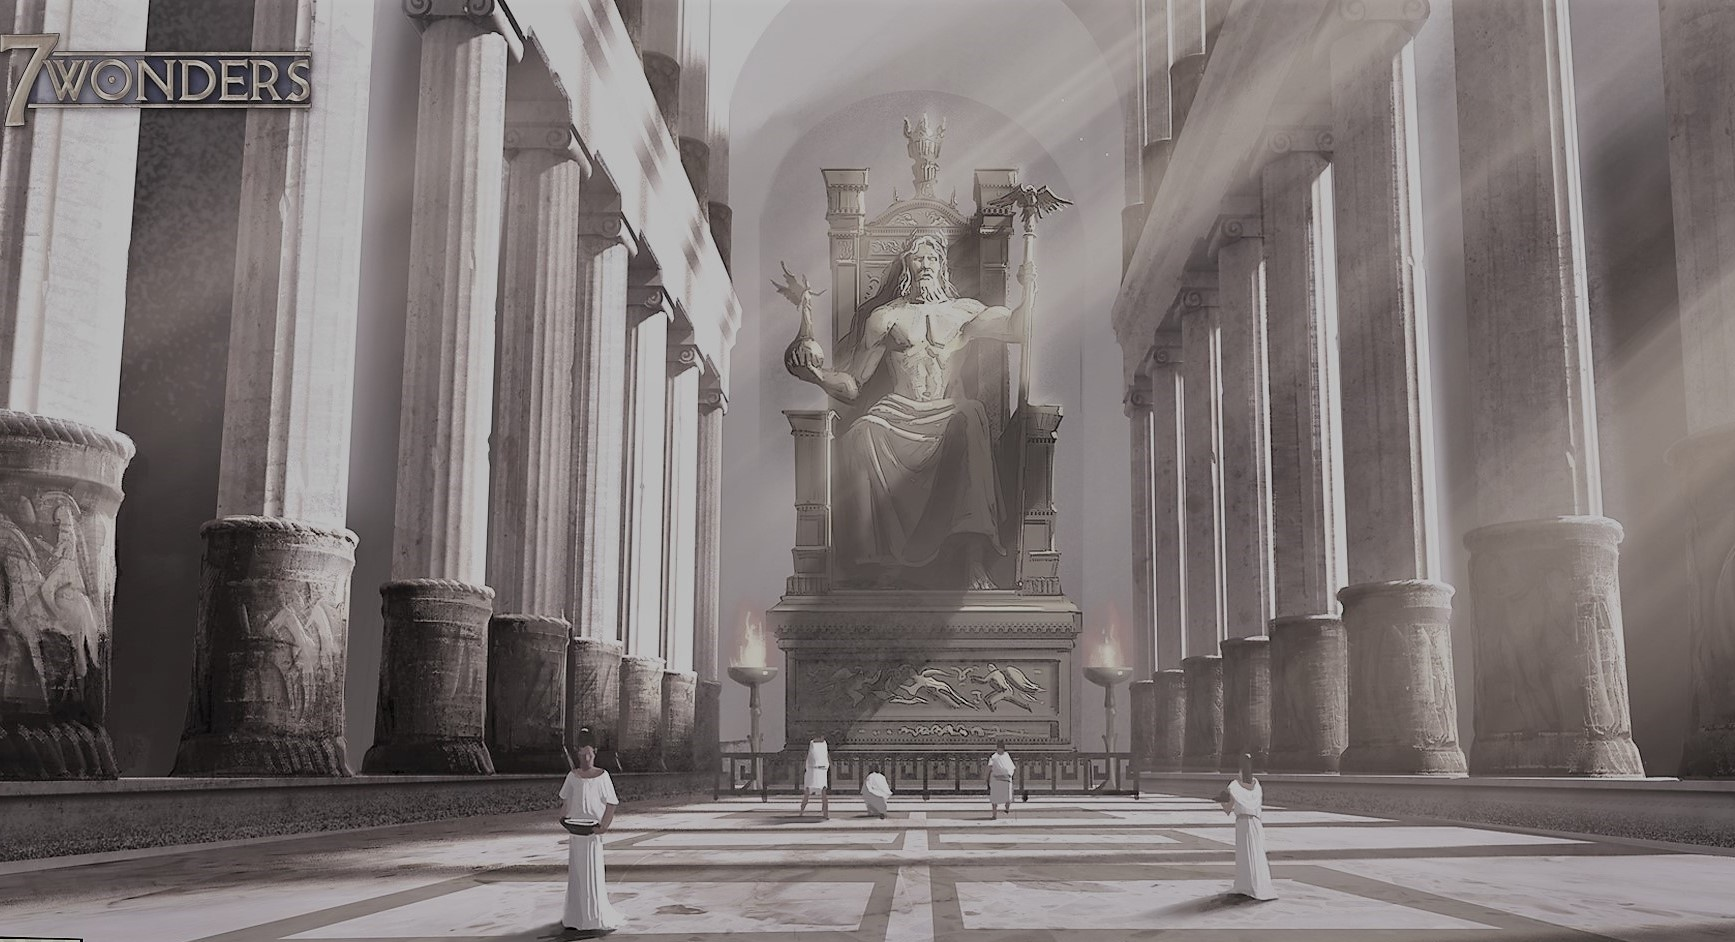
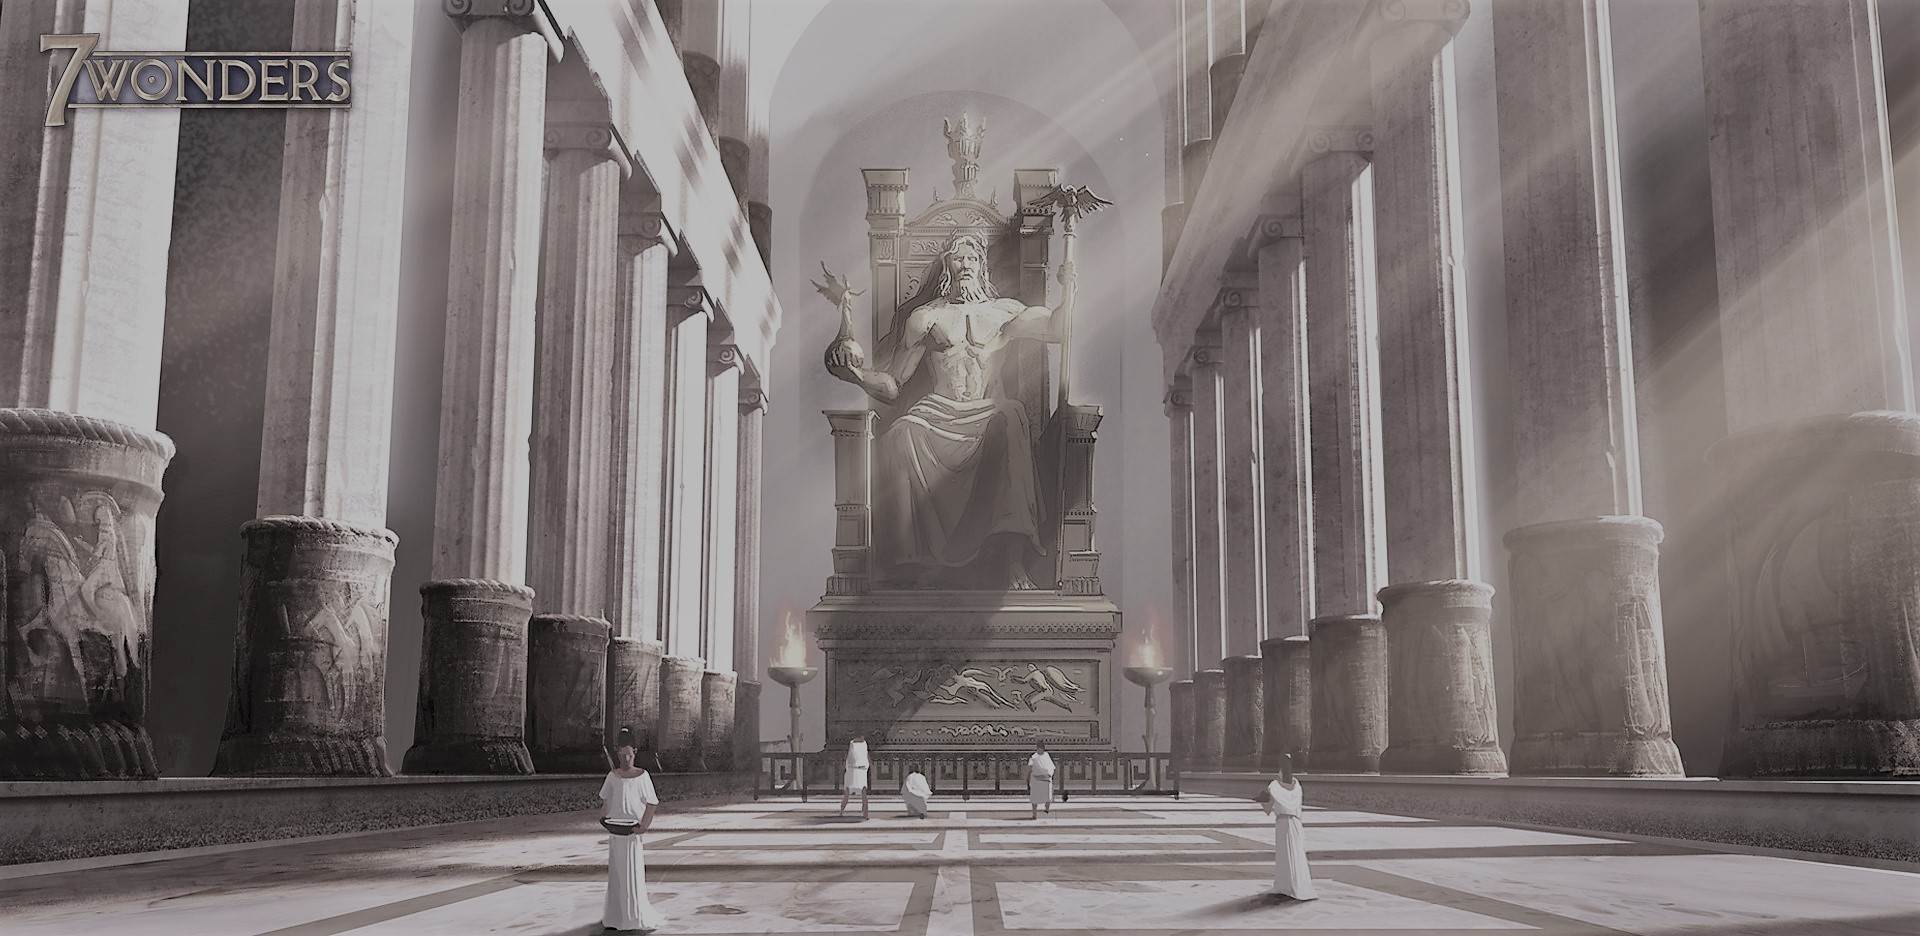
Add background images

diff --git a/src/main/java/uiComponents/SceneChanger.java b/src/main/java/uiComponents/SceneChanger.java
@@ -210,15 +210,15 @@ public class SceneChanger {
 
         try{
             fileInputStream = new FileInputStream(new File(Constants.CREDITS_FXML));
-            /*backgroundFile = new FileInputStream(Constants.MAIN_BACKGROUND_IMAGE);
-            logoFile = new FileInputStream(Constants.LOGO_IMAGE);*/
+            backgroundFile = new FileInputStream(Constants.CREDITS_BACK_IMAGE);
+            //logoFile = new FileInputStream(Constants.LOGO_IMAGE);
             root = (AnchorPane)loader.load(fileInputStream);
 
-            /*Image backgroundImage = new Image(backgroundFile);
+            Image backgroundImage = new Image(backgroundFile);
             ImageView backgroundView = (ImageView) root.getChildren().get(0);
             backgroundView.setImage(backgroundImage);
 
-            Image logoImage = new Image(logoFile);
+            /*Image logoImage = new Image(logoFile);
             ImageView logoView = (ImageView) root.getChildren().get(1);
             logoView.setImage(logoImage);*/
 

diff --git a/src/main/java/utils/Constants.java b/src/main/java/utils/Constants.java
@@ -26,5 +26,6 @@ public class Constants {
     public static final String SOUND_EFFECTS_OFF_IMAGE = String.join(File.separator, "src", "main", "resources", "images", "sound-off.png");
     public static final String SETTINGS_BACK_IMAGE = String.join(File.separator, "src", "main", "resources", "images", "background_halikarnas.jpg");
     public static final String SEE_THE_PLAYERS_BACK_IMAGE = String.join(File.separator, "src", "main", "resources", "images", "background_pyramid.jpg");
+    public static final String CREDITS_BACK_IMAGE = String.join(File.separator, "src", "main", "resources", "images", "background_credits.png");
 
 }
